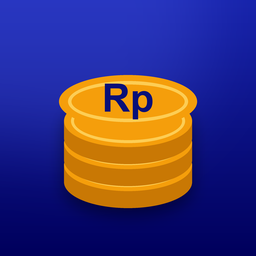
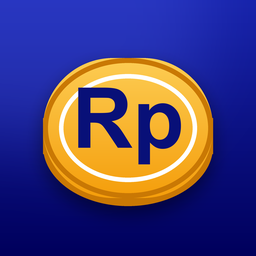
Notifikasi: ikon koin satu besar dengan Rp terbaca; judul Indonesia diringkas, kata kunci di depan

Changed region(s): [[0.125, 0.2188, 0.8438, 0.8125]]

diff --git a/.agents/agents.md b/.agents/agents.md
@@ -7818,3 +7818,5 @@ Banner kecil tidak muncul di HP Ayah (Chrome tidak selalu mengirim `beforeinstal
 
 ## Pengiriman push terlihat di log, 19 Oktober 2026
 Laporan: "request material dibuat tapi tidak ada notifikasi ke Ayah" di VPS. Diperiksa: konfigurasi VAPID/APP_URL benar, `QUEUE_CONNECTION=sync`, pembuat (Taufiq) mengirim ke pemegang `review_material_requisitions` (Ayah dan Ayu), keduanya punya langganan, dan tes kirim ke akun Ayah dijawab 201 oleh layanan push untuk kedua langganannya -- jadi sisi server sehat. Yang ternyata TIDAK terlihat: paket webpush menghapus langganan kedaluwarsa (404/410) tanpa jejak dan hanya men-dispatch `NotificationFailed` yang tidak punya pendengar. Kini `App\Listeners\LogPushDelivery` (ditemukan otomatis oleh Laravel; JANGAN didaftarkan manual, tercatat dobel) mencatat tiap kegagalan di log (langganan, pengguna, host, status, alasan; tanpa kunci/isi). `TaskAlert` memakai `urgency: high` agar Android yang layarnya mati tidak menunda tugas yang menunggu persetujuan. Satu perangkat = satu langganan = satu pemilik: bila HP yang sama dipakai login sebagai pengguna lain, paket memindahkan langganannya ke pengguna terakhir (hapus lalu buat ulang), jadi uji beberapa akun di satu HP membuat akun sebelumnya berhenti menerima notifikasi. Dashboard menampilkan cakupan langganan (7/15 saat diperiksa).
+
+**Penyempurnaan (19 Oktober 2026, setelah dicoba di HP Ayah):** ikon pembayaran jadi SATU koin besar dengan "Rp" besar (versi tumpukan koin terlalu kecil untuk dibaca di ukuran notifikasi). Judul notifikasi Indonesia diringkas dan kata kuncinya dipindah ke depan, karena tampilan ringkas HyperOS memotong judul sekitar 8-12 huruf dan kata awal "Request" tidak memberi tahu apa-apa: "Material baru", "Setujui material", "Material disetujui/ditolak/dikembalikan/diajukan ulang", "Beef baru", "Setujui beef", "Beef disetujui/ditolak/dikembalikan/diajukan ulang", "Sales Order baru", "GR belum dikunci", "QC perlu laporan", "Costing siap" (hanya terjemahan di `lang/id.json`; judul Inggris tetap). Pedoman untuk judul baru: objek dulu, singkat, kurang dari sekitar 16 huruf.
